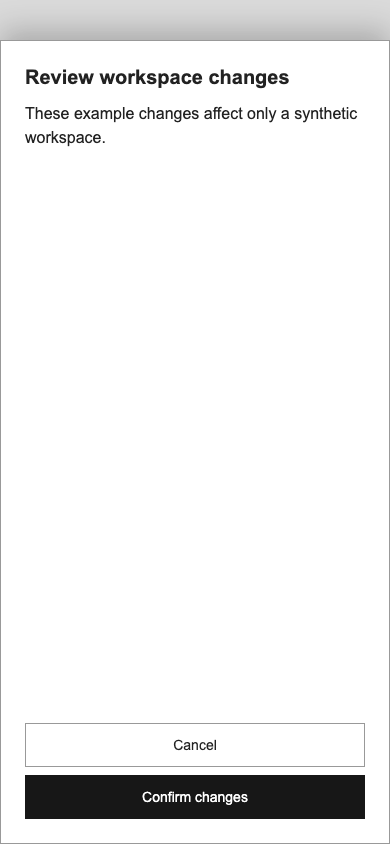
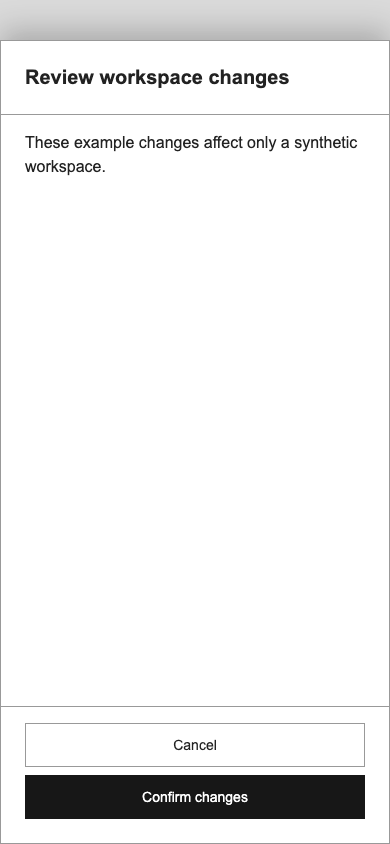
Add mobile Dialog header and action dividers

Changed region(s): [[0.0615, 0.1232, 0.9231, 0.2156]]

diff --git a/packages/ds/src/themes/dialog.css b/packages/ds/src/themes/dialog.css
@@ -52,13 +52,27 @@
     display: grid;
     grid-template-rows: auto minmax(0, 1fr) auto;
     overflow: hidden;
+    padding: 0;
+  }
+
+  [data-wk-dialog-content]:has(> :nth-child(3):last-child) > :first-child {
+    margin: 0;
+    padding: 24px;
+    border-bottom: 1px solid var(--wk-border, #999);
   }
 
   [data-wk-dialog-content]:has(> :nth-child(3):last-child) > :nth-child(2) {
     min-height: 0;
     overflow: auto;
+    padding: 16px 24px;
     overscroll-behavior: contain;
     -webkit-overflow-scrolling: touch;
+  }
+
+  [data-wk-dialog-content]:has(> :nth-child(3):last-child) > :last-child {
+    margin: 0;
+    padding: 16px 24px max(24px, env(safe-area-inset-bottom));
+    border-top: 1px solid var(--wk-border, #999);
   }
 
   @keyframes wk-dialog-sheet-in {

diff --git a/packages/ds/test/dialog-actions.browser.test.ts b/packages/ds/test/dialog-actions.browser.test.ts
@@ -236,6 +236,10 @@ test.each([
     expect(panel.top).toBeCloseTo(40, 0);
     expect(panel.bottom).toBeCloseTo(h, 0);
     expect(panel.width).toBeCloseTo(w, 0);
+    expect(getComputedStyle(title).borderBottomWidth).toBe('1px');
+    expect(getComputedStyle(actions).borderTopWidth).toBe('1px');
+    expect(title.getBoundingClientRect().width).toBeCloseTo(panel.width - 2, 0);
+    expect(actions.getBoundingClientRect().width).toBeCloseTo(panel.width - 2, 0);
     expect(body.scrollHeight).toBeGreaterThan(body.clientHeight);
     body.scrollTop = body.scrollHeight;
     expect(title.getBoundingClientRect().top).toBeCloseTo(titleTop, 0);

diff --git a/packages/ds/src/components/dialog/dialog.stories.ts b/packages/ds/src/components/dialog/dialog.stories.ts
@@ -239,7 +239,9 @@ export const LongContentAndNarrowReflow: Story = {
     await expect(document.documentElement.scrollWidth).toBeLessThanOrEqual(
       document.documentElement.clientWidth,
     );
-    await expect(getComputedStyle(content).padding).toBe('24px');
+    await expect(getComputedStyle(content).padding).toBe(
+      window.matchMedia('(max-width: 600px)').matches ? '0px' : '24px',
+    );
     dialog.dataset.longPlayComplete = 'true';
   },
 };
